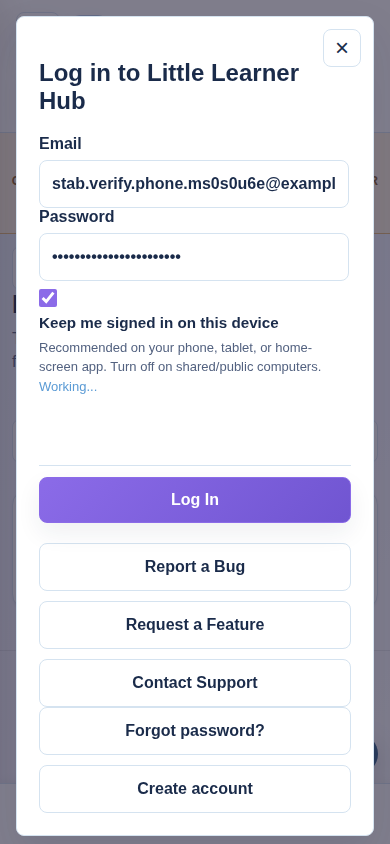
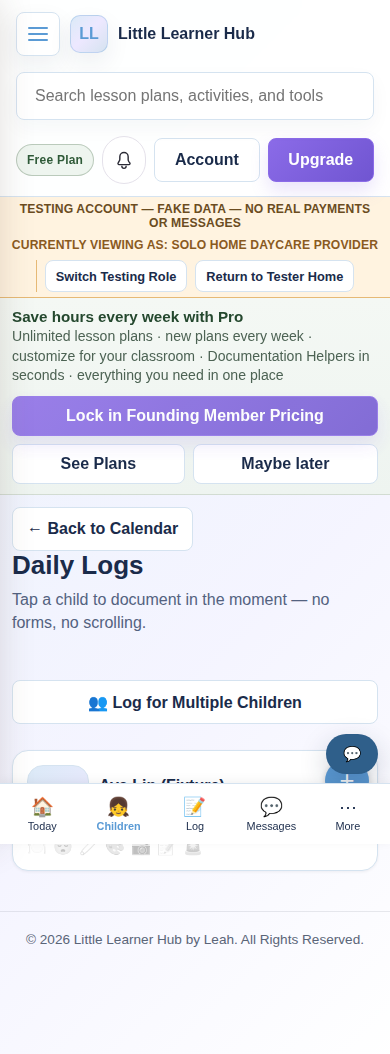
fix(stabilization): reliable computer/phone verification screenshots
Split Admin and fake-tester browser contexts so phone captures show
Provider nav, Fast Daily Logs classroom grid, Parent Home, and Testing
Feedback instead of a stuck login modal.

diff --git a/scripts/capture-stabilization-verification-screens.js b/scripts/capture-stabilization-verification-screens.js
@@ -2,6 +2,9 @@
 /**
  * Stabilization real-browser verification screenshots (computer + phone).
  * Fake fixtures only — local JSON store, disposable Admin + External Tester.
+ *
+ * Admin screens and tester screens use separate browser contexts so Admin
+ * unlock chrome never contaminates the fake-tester login flow.
  */
 const assert = require("node:assert/strict");
 const fs = require("node:fs");
@@ -89,160 +92,140 @@ async function shot(page, name) {
   console.log(`SHOT  ${name}`);
 }
 
-async function runViewport(browser, label, viewport) {
-  const prefix = label === "phone" ? "phone" : "computer";
-  const context = await browser.newContext({ viewport, serviceWorkers: "block" });
-  const page = await context.newPage();
-  const consoleErrors = [];
-  const failedCritical = [];
+function attachGuards(page, consoleErrors, failedCritical) {
   page.on("console", (msg) => { if (msg.type() === "error") consoleErrors.push(msg.text()); });
   page.on("pageerror", (e) => consoleErrors.push(String(e?.message || e)));
   page.on("requestfailed", (req) => {
     const url = req.url();
-    // Ignore aborted/cancelled non-critical fetches during navigation/reload.
     if (/\/api\/site-content|\/api\/analytics\//i.test(url)) return;
     if (/\/api\//.test(url) && !/favicon|fonts\.google/.test(url)) failedCritical.push(url);
   });
+}
+
+async function captureAdminScreens(browser, prefix, viewport) {
+  const context = await browser.newContext({ viewport, serviceWorkers: "block" });
+  const page = await context.newPage();
+  const consoleErrors = [];
+  const failedCritical = [];
+  attachGuards(page, consoleErrors, failedCritical);
 
   await page.goto(`http://127.0.0.1:${PORT}/`, { waitUntil: "domcontentloaded", timeout: 60000 });
   await page.waitForFunction(() => typeof setView === "function", null, { timeout: 60000 });
-
-  // Signed-out /admin — Admin login only
   await page.evaluate(() => { localStorage.clear(); sessionStorage.clear(); });
   await page.reload({ waitUntil: "domcontentloaded" });
-  await page.waitForFunction(() => typeof setView === "function", null, { timeout: 60000 });
-  await page.goto(`http://127.0.0.1:${PORT}/?view=admin`, { waitUntil: "domcontentloaded" });
   await page.waitForFunction(() => typeof setView === "function", null, { timeout: 60000 });
   await page.evaluate(() => setView("admin"));
   await page.waitForSelector("#adminUnlockForm", { timeout: 20000 });
   assert.equal(await page.evaluate(() => document.body.classList.contains("signed-out-admin-view")), true);
-  assert.equal(await page.locator("#platformNav:visible, #pilotProviderNav:visible").count().catch(() => 0), 0);
   await shot(page, `${prefix}-01-signed-out-admin.png`);
 
-  // Platform Admin → Owner Testing Home
-  await page.fill("#adminUnlockForm [name='adminEmail']", ADMIN.email);
-  await page.fill("#adminUnlockForm [name='adminPassword']", ADMIN.password);
-  await page.fill("#adminUnlockForm [name='adminCode']", ADMIN.code);
-  await page.click("#adminUnlockForm button[type='submit']");
-  await page.waitForFunction(() => {
-    try { return typeof isAdminUnlocked === "function" && isAdminUnlocked(); } catch { return false; }
-  }, null, { timeout: 30000 });
-  await page.evaluate(() => {
-    if (typeof setView === "function") setView("owner-testing-home", { fromBoot: true });
-  });
+  // Prefer form unlock; fall back to Admin API token when mobile UI submit stalls.
+  try {
+    await page.fill("#adminUnlockForm [name='adminEmail']", ADMIN.email, { timeout: 5000 });
+    await page.fill("#adminUnlockForm [name='adminPassword']", ADMIN.password, { timeout: 5000 });
+    await page.fill("#adminUnlockForm [name='adminCode']", ADMIN.code, { timeout: 5000 });
+    await page.click("#adminUnlockForm button[type='submit']");
+    await page.waitForFunction(() => typeof isAdminUnlocked === "function" && isAdminUnlocked(), null, { timeout: 12000 });
+  } catch {
+    const login = await requestJson("POST", "/api/admin/login", ADMIN);
+    assert.equal(login.status, 200, "Admin API login must succeed for screenshot unlock fallback");
+    await page.evaluate((payload) => {
+      if (typeof setAdminSession === "function") {
+        setAdminSession({
+          token: payload.token,
+          email: payload.email || payload.adminEmail || "",
+          unlockedAt: new Date().toISOString(),
+        });
+      } else {
+        localStorage.setItem("llhAdminSession", JSON.stringify({ token: payload.token, email: payload.email || "" }));
+        localStorage.setItem("llhAdminUnlocked", "true");
+        localStorage.setItem("llhAdminToken", payload.token || "");
+      }
+      if (typeof syncAdminUnlockedChrome === "function") syncAdminUnlockedChrome();
+    }, login.json);
+  }
+  await page.evaluate(() => setView("owner-testing-home", { fromBoot: true }));
   await page.waitForFunction(() => document.querySelector("#view-owner-testing-home.active-view"), null, { timeout: 30000 });
   await page.waitForTimeout(800);
   await shot(page, `${prefix}-02-owner-testing-home.png`);
 
-  // Testing Lab (not Calendar)
   await page.evaluate(() => setView("testing-lab"));
-  await page.waitForTimeout(1500);
+  await page.waitForTimeout(1200);
   assert.equal(await page.evaluate(() => document.querySelector(".active-view")?.id), "view-testing-lab");
   await shot(page, `${prefix}-03-testing-lab.png`);
 
-  // Add External Tester (Owner Testing Home deep-links into Testing Lab accounts panel)
   await page.evaluate(() => setView("testing-lab", { testingLabPanel: "accounts" }));
-  await page.waitForTimeout(1500);
-  await page.waitForFunction(() => {
-    const form = document.querySelector("[data-tl-pilot-create]");
-    return Boolean(form && (form.offsetParent || form.getClientRects().length));
-  }, null, { timeout: 20000 }).catch(async () => {
-    await page.evaluate(() => {
-      const form = document.querySelector("[data-tl-pilot-create]");
-      const section = form?.closest("section, .tl-panel, details, [hidden]");
-      if (form) { form.hidden = false; form.style.display = "block"; }
-      if (section) { section.hidden = false; section.open = true; section.style.display = ""; }
-    });
-  });
+  await page.waitForTimeout(1200);
+  await page.waitForSelector("[data-tl-pilot-create]", { state: "attached", timeout: 15000 });
   await shot(page, `${prefix}-04-add-external-tester.png`);
-  // Ensure inputs are interactable even if a mobile accordion wraps them.
-  await page.evaluate(() => {
-    const form = document.querySelector("[data-tl-pilot-create]");
-    if (!form) return;
-    form.hidden = false;
-    form.style.cssText = "display:block !important; visibility:visible !important; position:relative; z-index:9999;";
-    let node = form.parentElement;
-    while (node && node !== document.body) {
-      node.hidden = false;
-      if (node.tagName === "DETAILS") node.open = true;
-      const style = window.getComputedStyle(node);
-      if (style.display === "none") node.style.display = "block";
-      if (style.visibility === "hidden") node.style.visibility = "visible";
-      node = node.parentElement;
-    }
-    form.querySelectorAll("input,button").forEach((el) => {
-      el.disabled = false;
-      el.style.visibility = "visible";
-      el.style.display = "block";
-    });
-  });
 
-  const stamp = Date.now().toString(36);
-  const email = `stab.verify.${prefix}.${stamp}@example.invalid`;
-  // Prefer UI fill; fall back to Admin API create if the mobile form stays clipped.
-  let password = "";
-  try {
-    await page.fill("[data-tl-pilot-create] input[name='testerName']", `Stab Verify ${prefix}`, { timeout: 5000 });
-    await page.fill("[data-tl-pilot-create] input[name='email']", email, { timeout: 5000 });
-    await page.click("[data-tl-pilot-create] button[type='submit']");
-    await page.waitForTimeout(1200);
-    password = (await page.locator("[data-tl-pilot-password]").textContent()).trim();
-  } catch {
-    const adminLogin = await requestJson("POST", "/api/admin/login", ADMIN);
-    const wizard = await requestJson("POST", "/api/external-tester/create-pilot", {
-      testerName: `Stab Verify ${prefix}`,
-      email,
-      childCount: 1,
-    }, { Authorization: `Bearer ${adminLogin.json.token}` });
-    assert.equal(wizard.status, 200, `create-pilot fallback failed: ${JSON.stringify(wizard.json)}`);
-    password = wizard.json.temporaryPassword;
-  }
-  assert.ok(password && password.length > 4, "temporary password required");
+  const bootTimeouts = consoleErrors.filter((m) => /App boot timed out/i.test(m));
+  assert.equal(bootTimeouts.length, 0, `boot timeout on ${prefix} admin: ${bootTimeouts.join(" | ")}`);
+  const actionable = consoleErrors.filter((m) => !/favicon|ResizeObserver|net::ERR_/i.test(m));
+  assert.deepEqual(actionable, [], `console errors on ${prefix} admin: ${JSON.stringify(actionable)}`);
+  assert.deepEqual(failedCritical, [], `failed API on ${prefix} admin: ${JSON.stringify(failedCritical)}`);
+  await context.close();
+}
 
-  await page.evaluate(() => { if (typeof signOut === "function") signOut(); });
-  await page.waitForTimeout(400);
+async function captureTesterScreens(browser, prefix, viewport, email, password) {
+  const context = await browser.newContext({ viewport, serviceWorkers: "block" });
+  const page = await context.newPage();
+  const consoleErrors = [];
+  const failedCritical = [];
+  attachGuards(page, consoleErrors, failedCritical);
+
+  await page.goto(`http://127.0.0.1:${PORT}/`, { waitUntil: "domcontentloaded", timeout: 60000 });
+  await page.waitForFunction(() => typeof setView === "function", null, { timeout: 60000 });
   await page.evaluate(() => openAuthModal("login"));
+  await page.waitForTimeout(300);
   await page.fill("#emailInput", email);
   await page.fill("#passwordInput", password);
   await page.click("#authSubmitButton");
+  await page.waitForFunction((expected) => currentUser === expected, email, { timeout: 30000 });
   await page.waitForSelector("#pilotProviderNav", { timeout: 20000 });
+  await page.waitForTimeout(800);
   await shot(page, `${prefix}-05-provider-nav.png`);
 
   await page.evaluate(() => setView("child-tools-daily-logs"));
   await page.waitForSelector(".fdlc-classroom-grid", { timeout: 15000 });
+  await page.waitForFunction(() => (document.querySelector(".fdlc-classroom-grid")?.textContent || "").length > 10, null, { timeout: 15000 });
+  await page.waitForTimeout(500);
   await shot(page, `${prefix}-06-fast-daily-logs.png`);
 
-  // Parent switch
   const memberLogin = await requestJson("POST", "/api/auth/password-login", { email, password });
   const memberAuth = { Authorization: `Bearer ${memberLogin.json.memberSessionToken}` };
   const guardians = await requestJson("GET", "/api/external-tester/guardian-options", null, memberAuth);
   const contactId = guardians.json.options[0].contactId;
   await page.evaluate(async (cid) => {
-    const data = await externalTesterSandboxApi("POST", "/api/external-tester/switch-role", { roleKey: "parent_guardian", previewContactId: cid });
+    const data = await externalTesterSandboxApi("POST", "/api/external-tester/switch-role", {
+      roleKey: "parent_guardian",
+      previewContactId: cid,
+    });
     if (currentUser && data?.identity) {
-      updateAccount(currentUser, { role: data.identity.role, accountType: data.identity.accountType, familyHubGuardian: data.identity.familyHubGuardian });
+      updateAccount(currentUser, {
+        role: data.identity.role,
+        accountType: data.identity.accountType,
+        familyHubGuardian: data.identity.familyHubGuardian,
+      });
     }
   }, contactId);
   await page.reload({ waitUntil: "domcontentloaded" });
   await page.waitForFunction(() => typeof setView === "function", null, { timeout: 60000 });
   await page.evaluate(() => setView("pilot-parent-home"));
-  await page.waitForTimeout(1200);
+  await page.waitForTimeout(1500);
+  await page.waitForSelector("#pilotParentNav", { timeout: 15000 });
   await shot(page, `${prefix}-07-parent-home.png`);
 
-  // Testing Feedback
-  await page.evaluate(() => {
-    const toggle = document.querySelector("[data-tf-toggle], [data-pilot-open-feedback]");
-    if (toggle) toggle.click();
-  });
+  await page.evaluate(() => document.querySelector("[data-tf-toggle], [data-pilot-open-feedback]")?.click());
   await page.waitForTimeout(800);
   await shot(page, `${prefix}-08-testing-feedback.png`);
 
   const bootTimeouts = consoleErrors.filter((m) => /App boot timed out/i.test(m));
-  assert.equal(bootTimeouts.length, 0, `boot timeout on ${label}: ${bootTimeouts.join(" | ")}`);
+  assert.equal(bootTimeouts.length, 0, `boot timeout on ${prefix} tester: ${bootTimeouts.join(" | ")}`);
   const actionable = consoleErrors.filter((m) => !/favicon|ResizeObserver|net::ERR_/i.test(m));
-  assert.deepEqual(actionable, [], `console errors on ${label}: ${JSON.stringify(actionable)}`);
-  assert.deepEqual(failedCritical, [], `failed API on ${label}: ${JSON.stringify(failedCritical)}`);
-  console.log(`OK    ${label} verification clean`);
+  assert.deepEqual(actionable, [], `console errors on ${prefix} tester: ${JSON.stringify(actionable)}`);
+  assert.deepEqual(failedCritical, [], `failed API on ${prefix} tester: ${JSON.stringify(failedCritical)}`);
+  console.log(`OK    ${prefix} verification clean`);
   await context.close();
 }
 
@@ -259,8 +242,23 @@ async function main() {
       siteContent: { updatedAt: siteContentGet.json?.siteContent?.updatedAt || "", featureFlags: { testingLab: true } },
     });
 
-    await runViewport(browser, "computer", { width: 1280, height: 900 });
-    await runViewport(browser, "phone", { width: 390, height: 844, isMobile: true, hasTouch: true });
+    for (const [label, viewport] of [
+      ["computer", { width: 1280, height: 900 }],
+      ["phone", { width: 390, height: 844, isMobile: true, hasTouch: true }],
+    ]) {
+      const prefix = label === "phone" ? "phone" : "computer";
+      await captureAdminScreens(browser, prefix, viewport);
+
+      const stamp = Date.now().toString(36);
+      const email = `stab.verify.${prefix}.${stamp}@example.invalid`;
+      const wizard = await requestJson("POST", "/api/external-tester/create-pilot", {
+        testerName: `Stab Verify ${prefix}`,
+        email,
+        childCount: 1,
+      }, { Authorization: `Bearer ${adminLogin.json.token}` });
+      assert.equal(wizard.status, 200, `create-pilot failed: ${JSON.stringify(wizard.json)}`);
+      await captureTesterScreens(browser, prefix, viewport, email, wizard.json.temporaryPassword);
+    }
   } finally {
     await browser.close();
     await stopServer(child);
